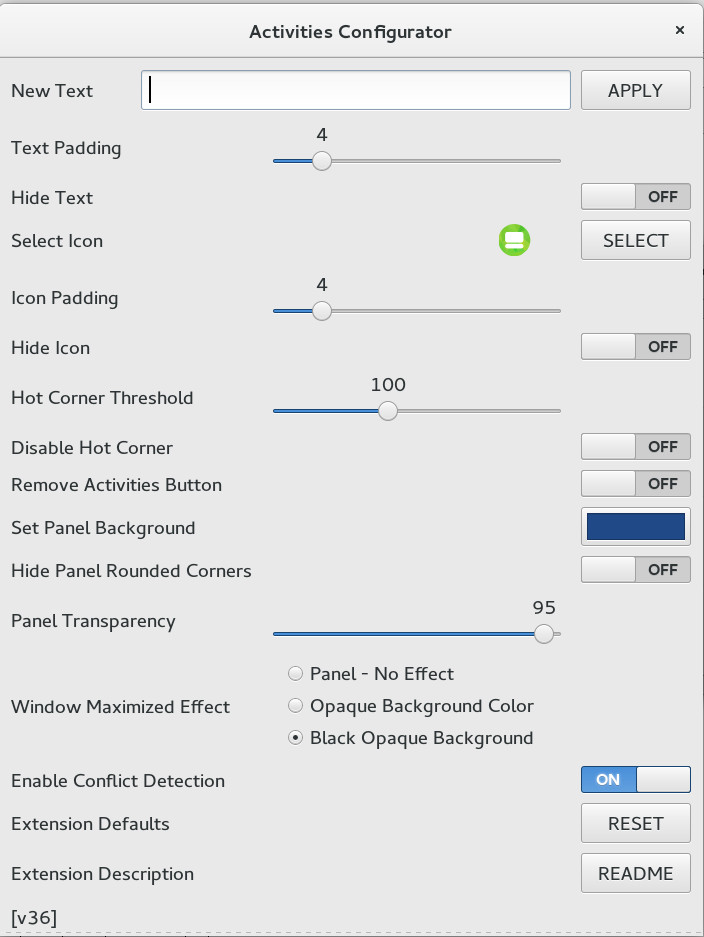
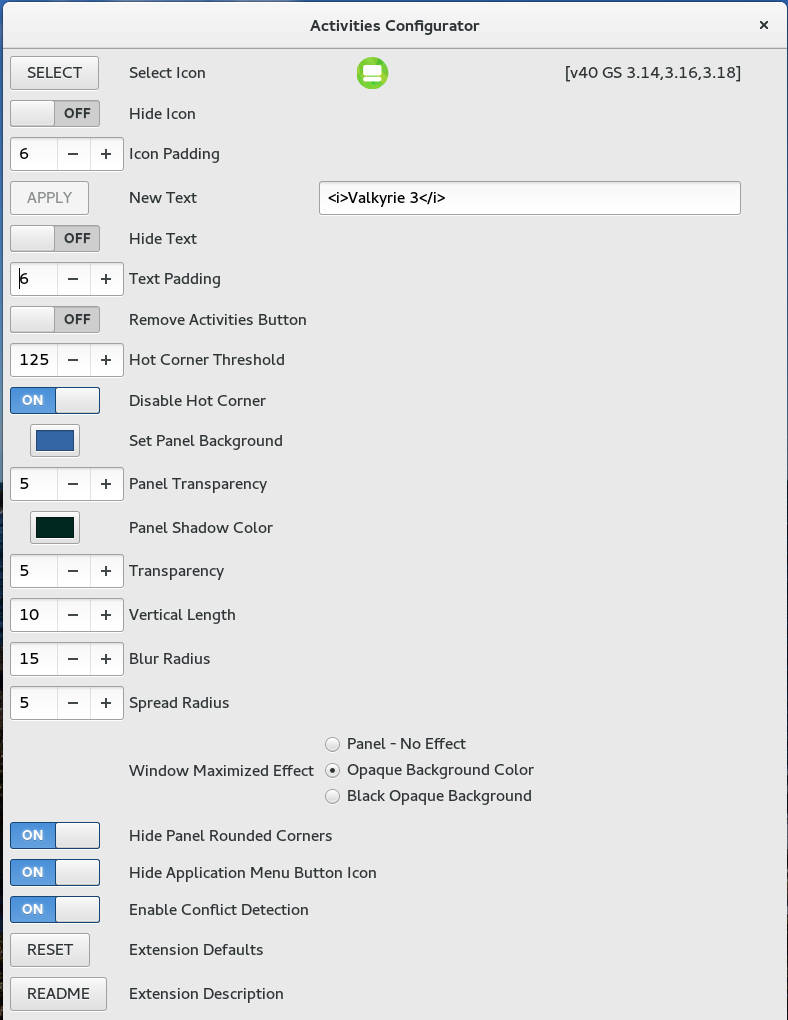
Updated for Version 40 of Activities Configurator

diff --git a/activities_config.html b/activities_config.html
@@ -82,13 +82,13 @@
         The icon can be hidden.<br>&nbsp
         </li>
         <li>
+        The Activities Button can be removed.<br>&nbsp
+        </li>
+        <li>
         The Hot Corner Threshold can be adjusted.<br>&nbsp
         </li>
         <li>
         The Hot Corner can be disabled.<br>&nbsp
-        </li>
-        <li>
-        The Activities Button can be removed.<br>&nbsp
         </li>
         <li>
         The Panel Background can be changed from black to a color of your choice.<br>&nbsp
@@ -100,12 +100,17 @@
         The Panel's background color transparency is adjustable.<br>&nbsp
         </li>
         <li>
+        A configurable Shadow Effect can be added to the Panel.<br>&nbsp
+        </li>
+        <li>
+        Setting the Shadow's Transparency, Vertical Length, Blur Radius, and Spread Radius is very simple.<br>&nbsp
+        </li>
+        <li>
         The appearance of the Panel's background can be chosen when a window is maximized.<br>&nbsp 
         </li>
         <li>Conflicts with other extensions can be resolved programmatically in most cases.<br>&nbsp</li>
         </ul>
         </p>
         <center><img src="./images/prefs.jpg" alt="PREFS"  border="2"></center><br>&nbsp<br>&nbsp
-        <center><img src="./images/prefs37.jpg" alt="PREFS"  border="2"></center><br>&nbsp<br>&nbsp
   </body>
 </html>

diff --git a/activities_config_zip.html b/activities_config_zip.html
@@ -27,6 +27,10 @@
 <td><h3>Gnome Shell Version(s)</h3></td>
 </tr>
 <tr>
+<td><a href="https://extensions.gnome.org/review/download/5642.shell-extension.zip">v40</a></td><td>&nbsp&nbsp&nbsp</td>
+<td><strong>3.14 3.16 3.18</strong></td>
+</tr>
+<tr>
 <td><a href="https://extensions.gnome.org/review/download/5525.shell-extension.zip">v39</a></td><td>&nbsp&nbsp&nbsp</td>
 <td><strong>3.14 3.16 3.18</strong></td>
 </tr>
